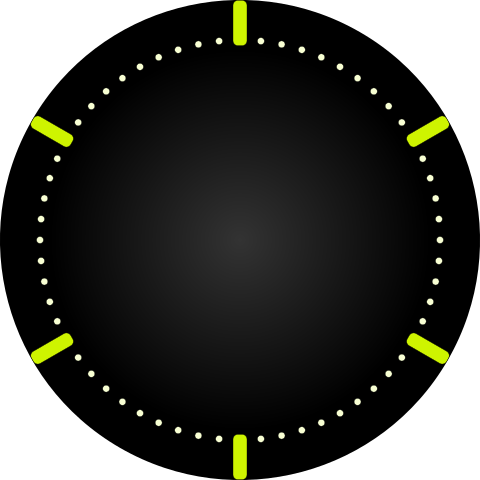
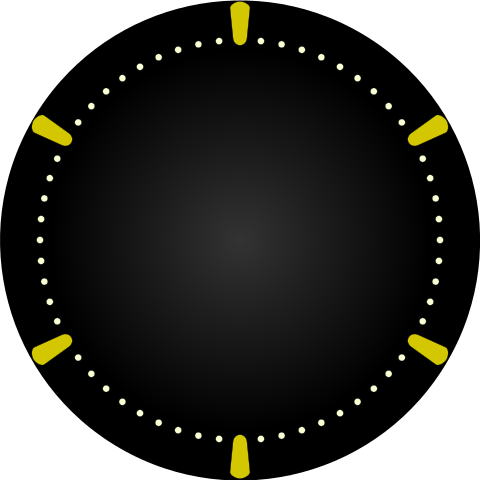
aod enabled, pointers and covers updated, 2hour marks updated

diff --git a/watchface/index.r.layout.js b/watchface/index.r.layout.js
@@ -110,8 +110,8 @@ export const MINUTE_POINTER_PROPS = {
   minute_path: 'time/m.png',
 
   minute_cover_path: 'time/mc.png',
-  minute_cover_x: SCREEN.centerX - px(40 / 2),
-  minute_cover_y: SCREEN.centerY - px(40 / 2),
+  minute_cover_x: SCREEN.centerX - px(20),
+  minute_cover_y: SCREEN.centerY - px(20),
 
   show_level: hmUI.show_level.ONLY_NORMAL | hmUI.show_level.ONAL_AOD,
 };
@@ -124,8 +124,8 @@ export const SECOND_POINTER_PROPS = {
   second_path: 'time/s.png',
 
   second_cover_path: 'time/sc.png',
-  second_cover_x: SCREEN.centerX - px(40 / 2),
-  second_cover_y: SCREEN.centerY - px(40 / 2),
+  second_cover_x: SCREEN.centerX - px(20),
+  second_cover_y: SCREEN.centerY - px(20),
 
   show_level: hmUI.show_level.ONLY_NORMAL,
 };
